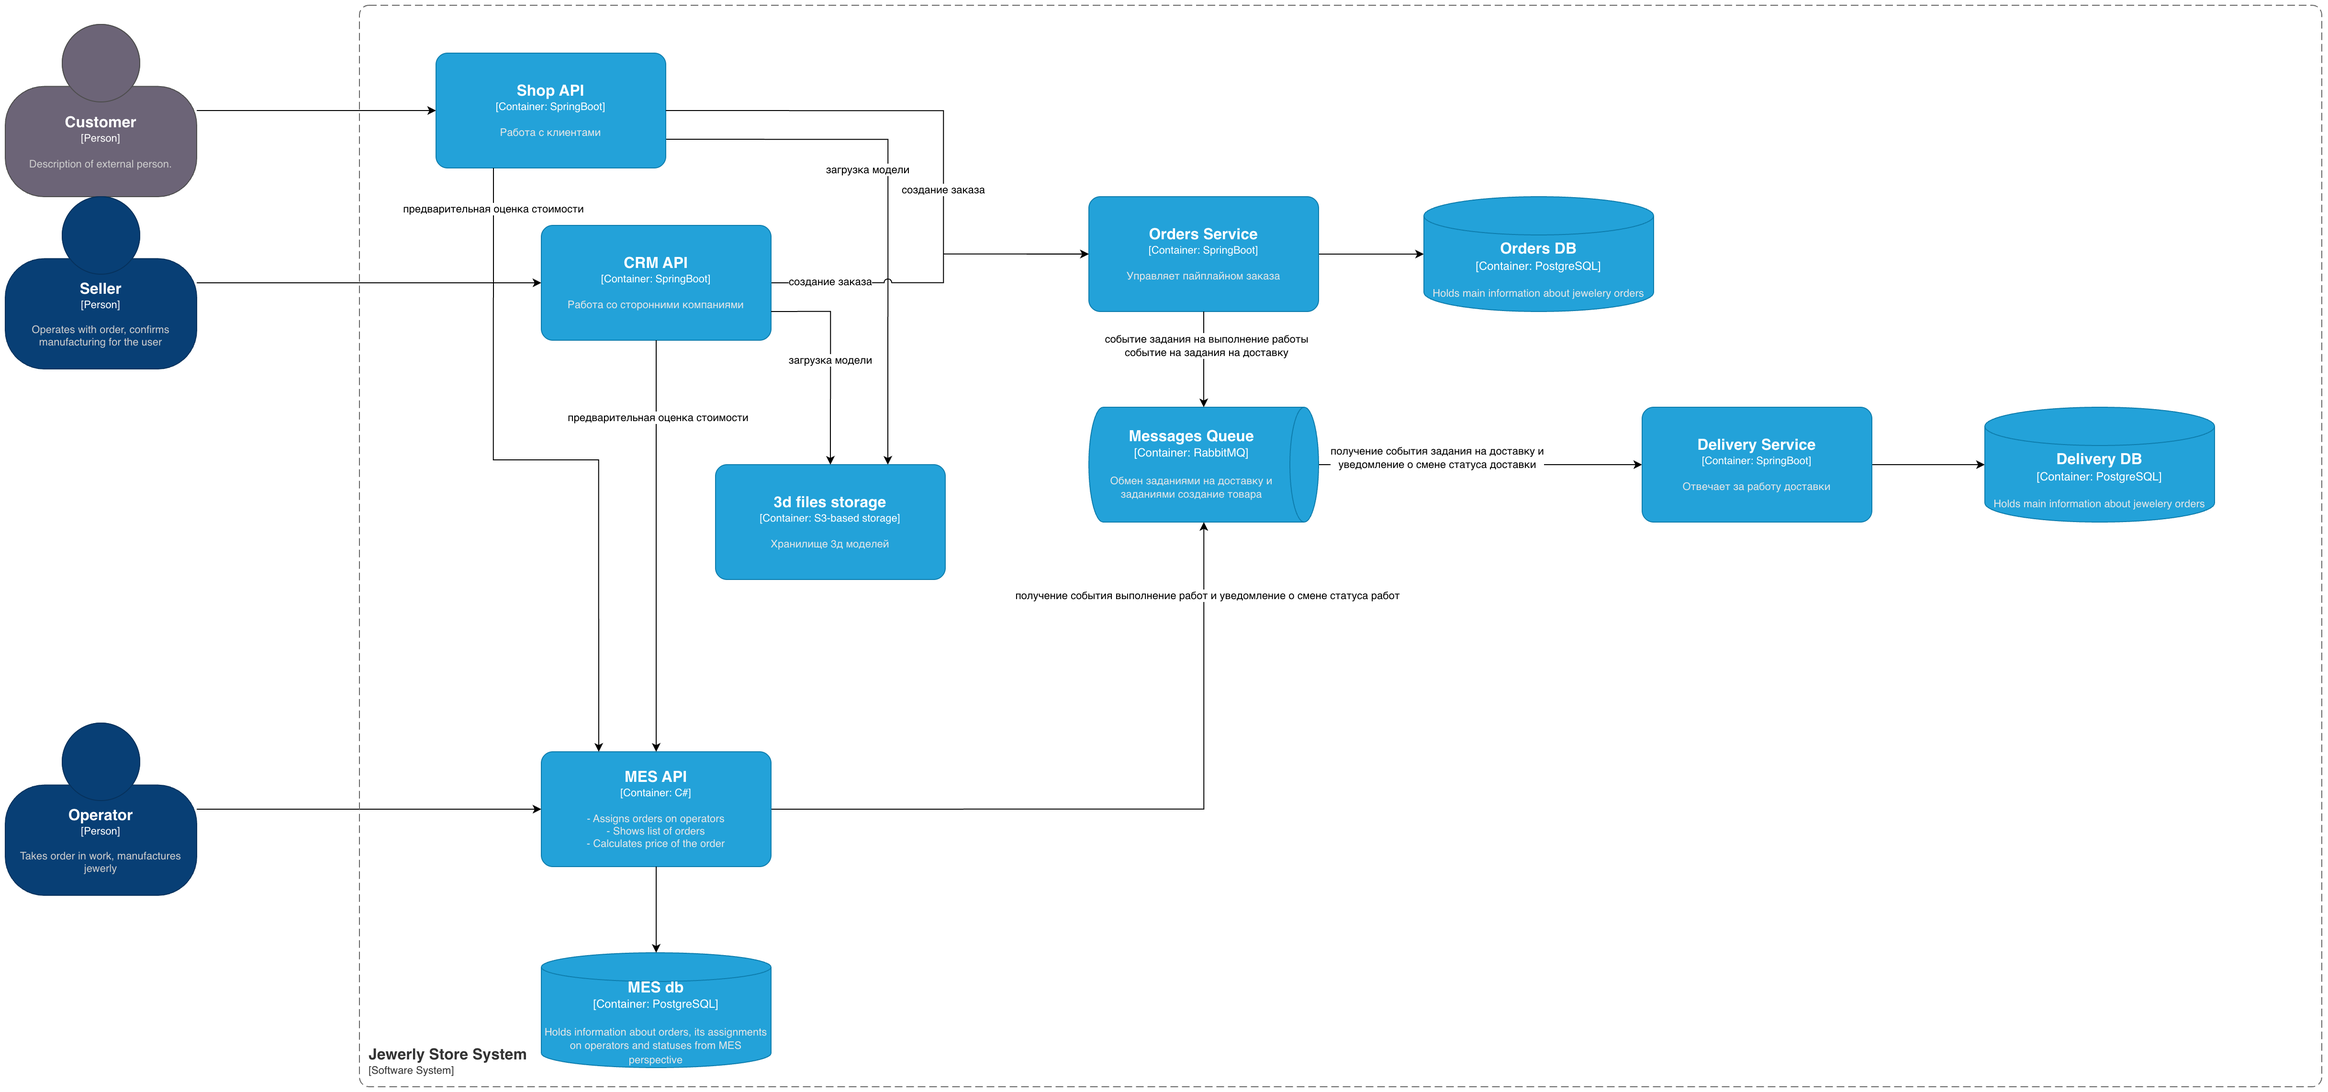
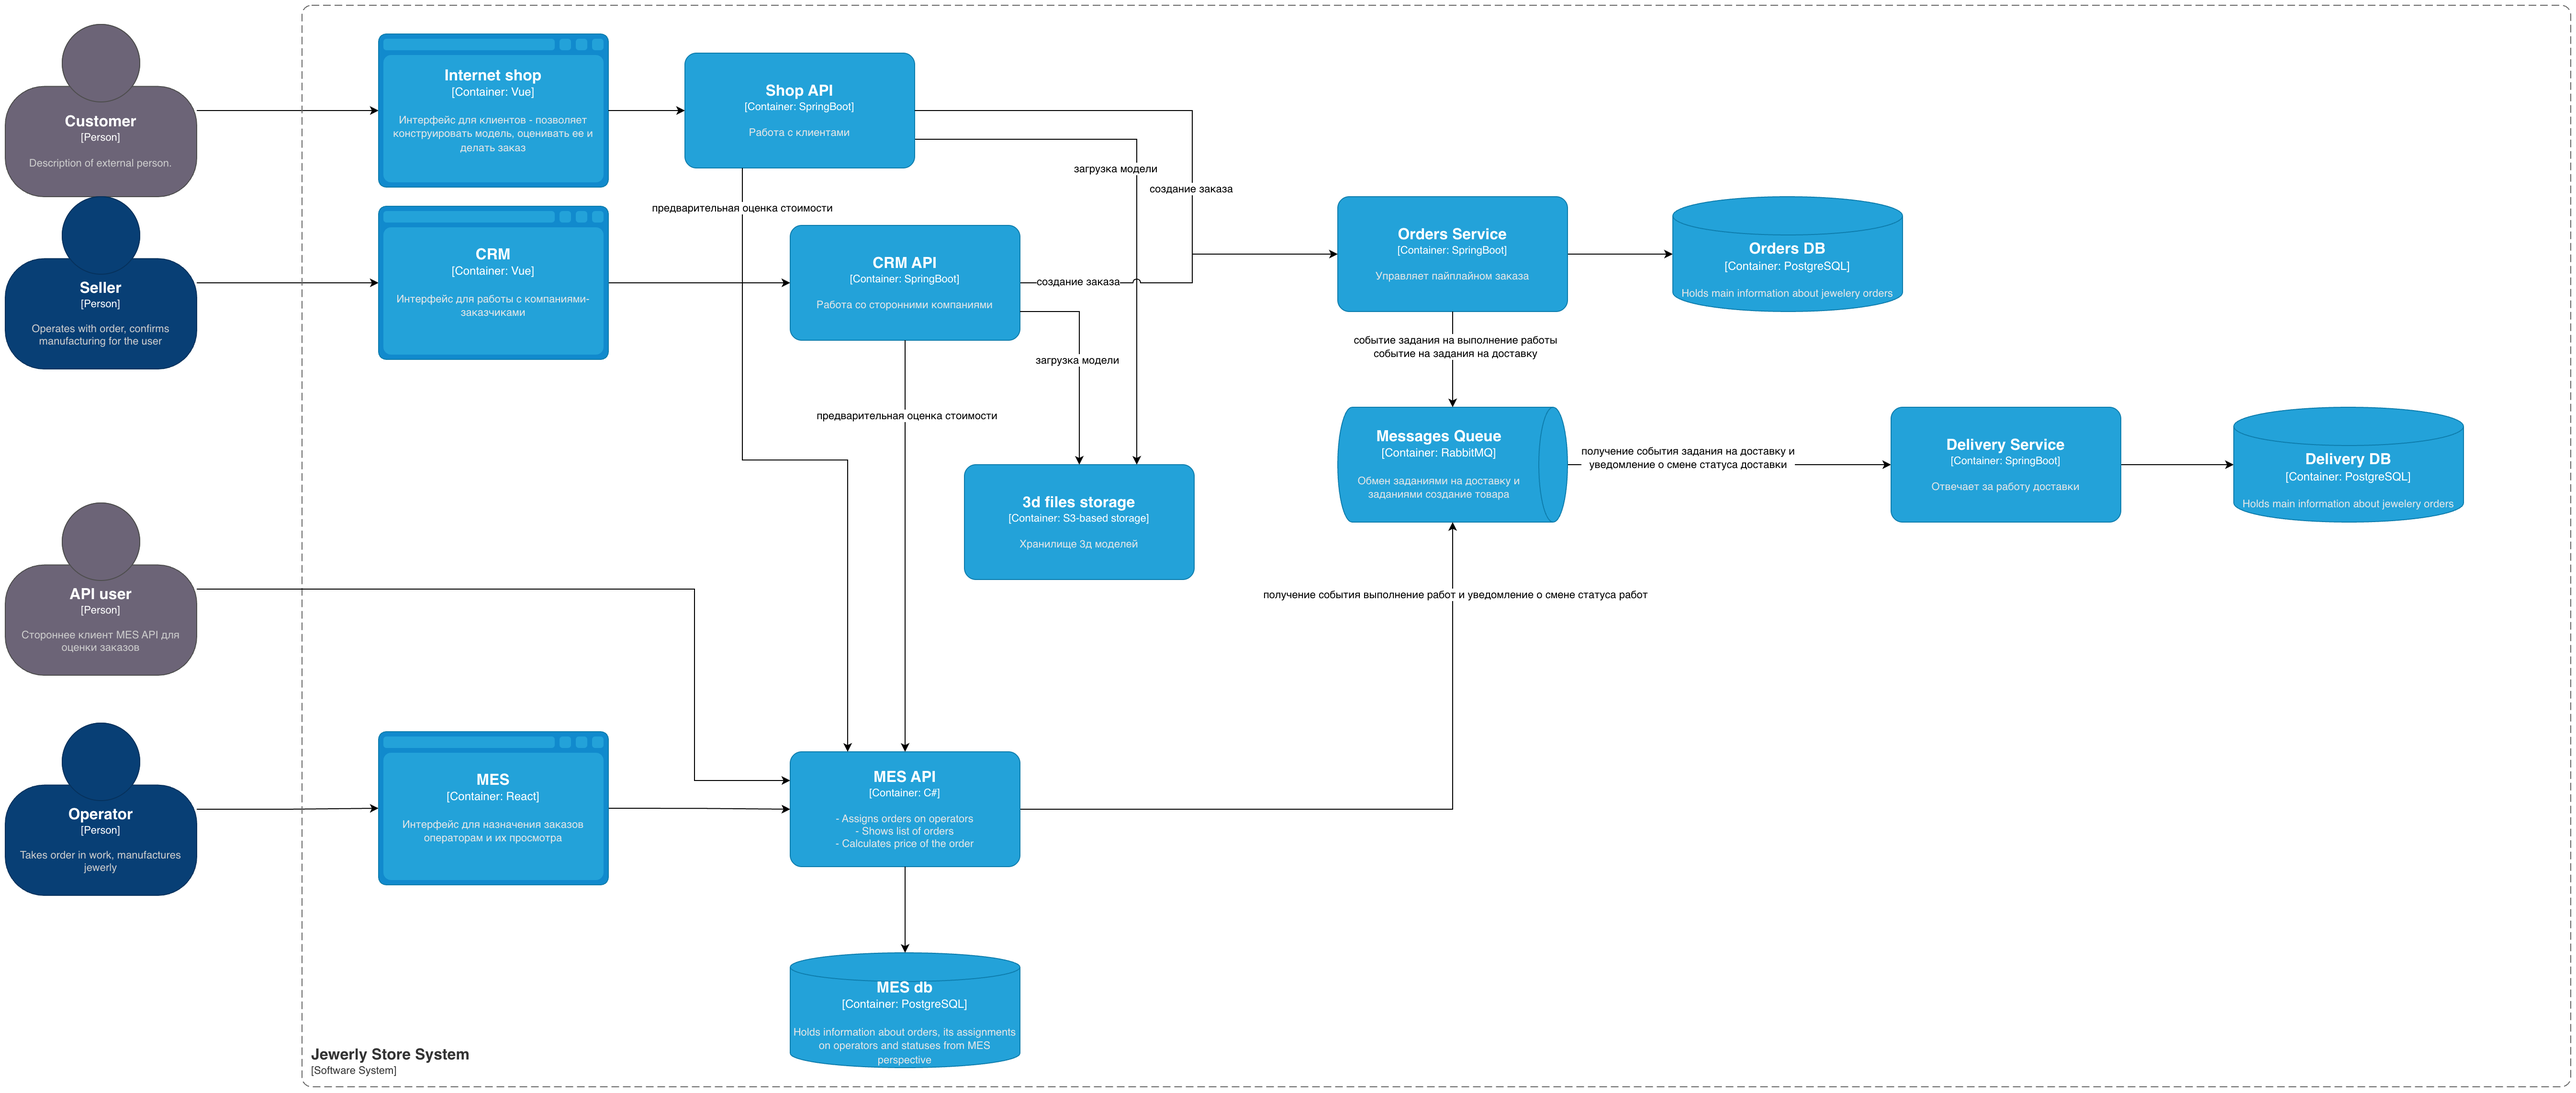
task 1

diff --git a/Task1/Планирование: анализ, идентификация проблем и поиск решений.md b/Task1/Планирование: анализ, идентификация проблем и поиск решений.md
@@ -65,16 +65,42 @@
 
 Работы с сервисами доставки на схеме тоже нет, отражу как отдельный сервис.
 
-Целевая архитектуру через полгода
+# Симптомы проблем
+
+1. Потери заказов: 
+    - Клиенты жалуются менеджерам по продажам, что они не получили заказ и над их изделием работают уже несколько месяцев, хотя обещали закончить за три недели.
+    - При создании заказов через CRM потери увеличились с увеличением нагрузки.
+2. Долгая загрузка первой страницы MES: Долгая загрузка актуальных заказов по фильтрам. Пагинация и фильтрация не помогли решить проблему.
+3. Задержки при релизе до месяца и более - релиз блокируется при нахождении проблем уровня high и highest тестировщиком
+
+# Выделенные проблемы 
+- 1 QA на 4 разработчиков
+- Нет явного ответственного за технические требования - отсутствие аналитика
+- Антипаттерн shared database
+- Отсутствие статуса отмены заказа
+- Редкие стеки среди сотрудников React и C#
+- Нет полноценного автотестирования
+- Проблема с долгим исправлением найденных багов - потенциально проблемы с ограничением активных задач или сложность обнаружения ошибок
+- Проблема с нагрузкой на БД - потенциально проблемы с оптимизацией или распределением нагрузки
+
+# Целевая архитектура через полгода
 ![](jewerly_c4_model_new.png)
 
-Следующими бы действиями я выбрал:
-- Найм QA разработчика, т.к. сейчас есть проблемы со стабильностью
-- Миграцию на новую архитектуру
-- Найм аналитика и дача ему задания описания ответсвенностей микросервисов 
+В этой архитектуре предлагается выделить в отдельный сервис управление заказами. 
+Таким образом shops api и crm api будут работать только со своей спецификой, а orders service управлять жизненным циклом заказов предоставляя информацию о статусах заказов и инициируя запрос на выполнение работы или доставки. 
 
+MES API будет работать только как оценщик заказов для CRM API и Shops API и будет работать с новой сущность задание на работу, с которым уже будут работать операторы.
 
-* Явно выделить проблемы и указать на симптомы (просроченные заказы, жалобы API-клиентов, медленная первая страница MES, задержки релизов.)
-* Дописать про масштабирование расчета оценки и про бд
-* Описать изменения в целевой архитектуре: кто владеет статусами заказа, какие события идут через очередь, куда ходит внешний API user, как работает расчет цены в MES
-* Подумать надо ли писать про observability
+В рамках новой архитектуры также предлагается для каждой PostgreSQL добавить синхронную и асинхронную реплики. Это позволит при падении мастера быстро переключиться на синхронную реплику, а часть чтений переключить на асинхронную. 
+
+Внешний кеш в виде Redis для сервиса MES пока было решено не вводить, поскольку 
+- предрасчитанные значения по трехмерным моделям можно хранить в базе данных, а пересечений не ожидаается слишком много, что даст много miss'ов
+- Данные по новым заказам являются часто изменяемыми и не подходят для кеширования.
+
+# Инициативы
+Следующими бы действиями я выбрал исходя из срочности. Наиболее срочными проблемами сейчас является утеря заказов и медленная загрузка заказов. 
+
+Эти проблемы можно решить следующими инициативами:
+- Найм QA разработчика, умеющего в автотесты. Это поможет быстрее находить проблемы до ручного тестирования.
+- Миграция на новую архитектуру - уменьшит количество неявных проблем с управлениями заказами из-за четкого распределения ответственности и добавит стабильности БД PostgreSQL
+- Повышение observability: Если разработчики ограничены в понимании источника проблем, то настройка логов и трейсов поможет упростить эту задачу.
